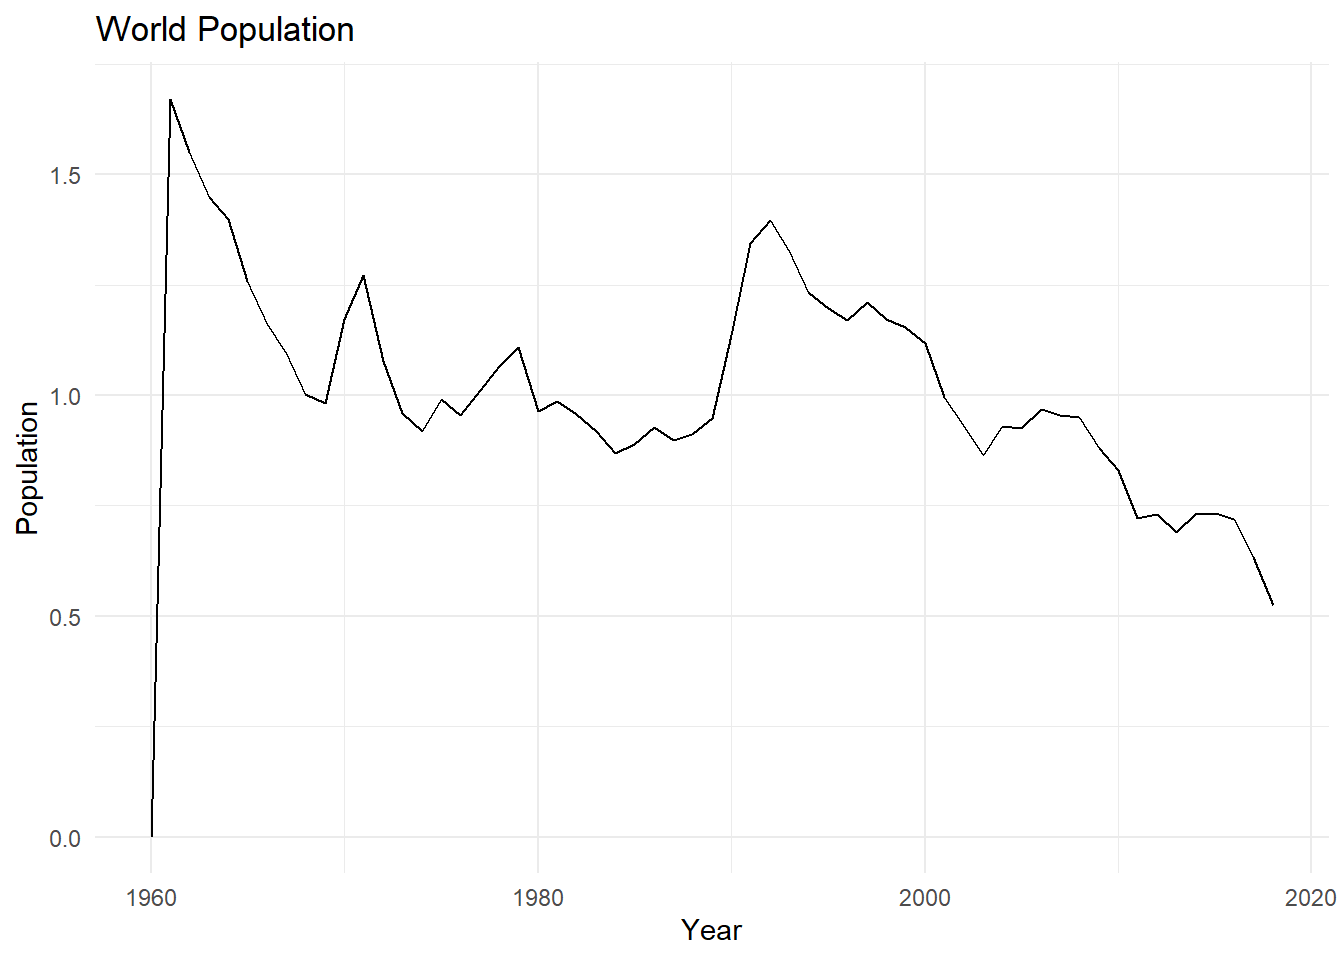
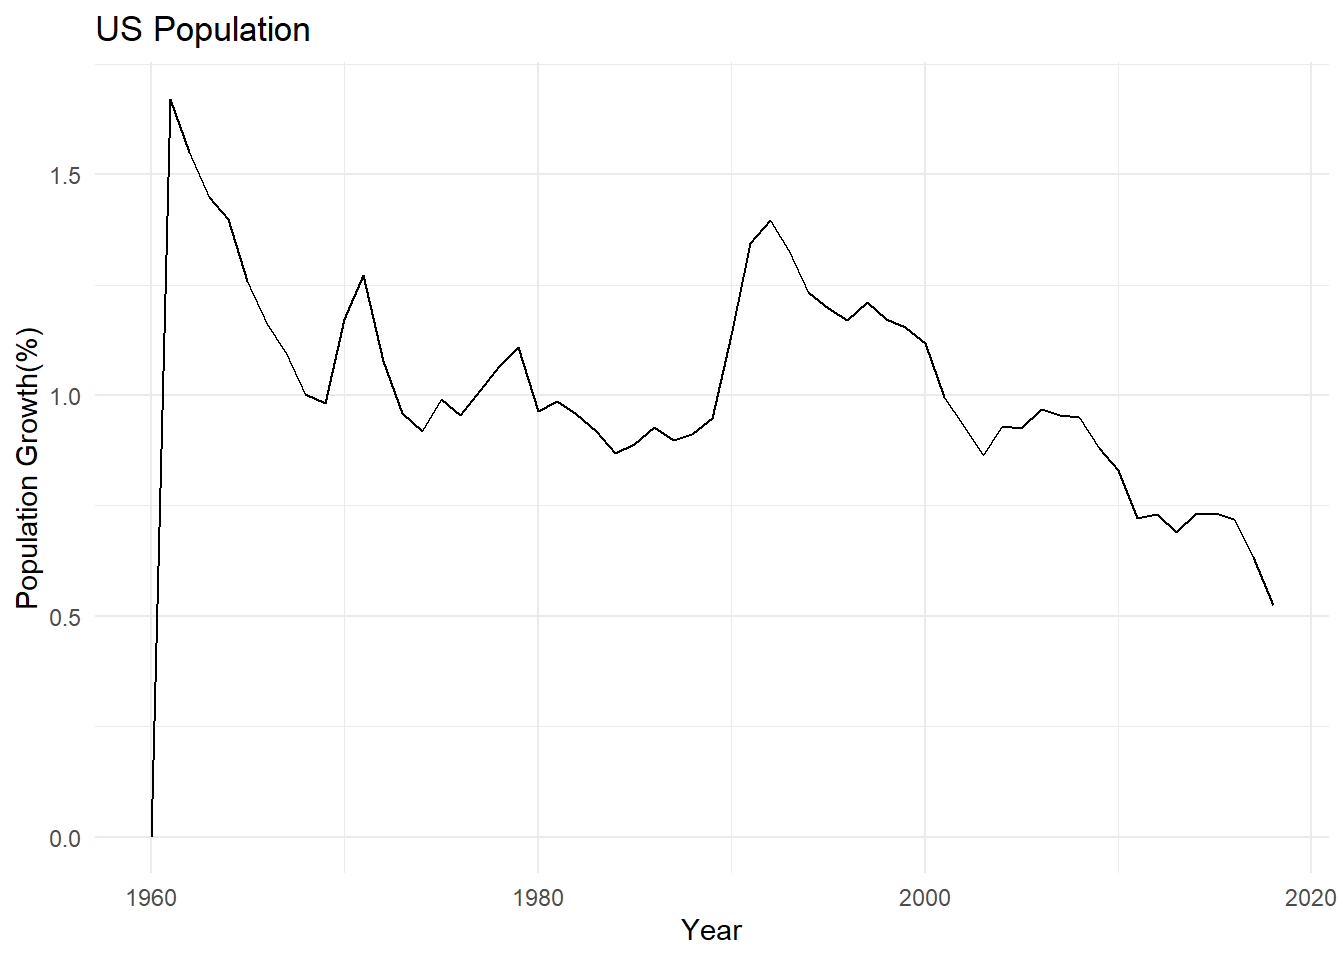
dashboard_1 update

Changed region(s): [[0.0625, 0.0, 0.25, 0.0625], [0.0, 0.3438, 0.0312, 0.625]]

diff --git a/docs/posts/dashboard_1/index.html b/docs/posts/dashboard_1/index.html
@@ -227,9 +227,56 @@ Show the US population growth per year by percentage
 <span id="cb3-8"><a href="#cb3-8" aria-hidden="true" tabindex="-1"></a><span class="fu">ggplot</span>(pop_USA, <span class="fu">aes</span>(<span class="at">x =</span> Year, <span class="at">y =</span> percentage)) <span class="sc">+</span> </span>
 <span id="cb3-9"><a href="#cb3-9" aria-hidden="true" tabindex="-1"></a>  <span class="fu">geom_line</span>() <span class="sc">+</span> </span>
 <span id="cb3-10"><a href="#cb3-10" aria-hidden="true" tabindex="-1"></a>  <span class="fu">theme_minimal</span>() <span class="sc">+</span></span>
-<span id="cb3-11"><a href="#cb3-11" aria-hidden="true" tabindex="-1"></a>  <span class="fu">labs</span>(<span class="at">title =</span> <span class="st">"World Population"</span>, <span class="at">x =</span> <span class="st">"Year"</span>, <span class="at">y =</span> <span class="st">"Population"</span>)</span></code><button title="Copy to Clipboard" class="code-copy-button"><i class="bi"></i></button></pre></div>
+<span id="cb3-11"><a href="#cb3-11" aria-hidden="true" tabindex="-1"></a>  <span class="fu">labs</span>(<span class="at">title =</span> <span class="st">"US Population"</span>, <span class="at">x =</span> <span class="st">"Year"</span>, <span class="at">y =</span> <span class="st">"Population Growth(%)"</span>)</span></code><button title="Copy to Clipboard" class="code-copy-button"><i class="bi"></i></button></pre></div>
 <div class="cell-output-display">
 <p><img src="index_files/figure-html/USA-population-growth-1.png" class="img-fluid" width="672"></p>
+</div>
+</div>
+<h3 class="anchored">
+linear model prediction for Chinese population next 10 years
+</h3>
+<div class="cell">
+<div class="sourceCode cell-code" id="cb4"><pre class="sourceCode r code-with-copy"><code class="sourceCode r"><span id="cb4-1"><a href="#cb4-1" aria-hidden="true" tabindex="-1"></a><span class="co"># Filter the Data</span></span>
+<span id="cb4-2"><a href="#cb4-2" aria-hidden="true" tabindex="-1"></a>pop_CHN <span class="ot">&lt;-</span> pop_data <span class="sc">%&gt;%</span></span>
+<span id="cb4-3"><a href="#cb4-3" aria-hidden="true" tabindex="-1"></a>    <span class="fu">filter</span>(Country.Code <span class="sc">==</span> <span class="st">"CHN"</span>)</span>
+<span id="cb4-4"><a href="#cb4-4" aria-hidden="true" tabindex="-1"></a>Year <span class="ot">&lt;-</span> pop_CHN<span class="sc">$</span>Year</span>
+<span id="cb4-5"><a href="#cb4-5" aria-hidden="true" tabindex="-1"></a>Value <span class="ot">&lt;-</span> pop_CHN<span class="sc">$</span>Value</span>
+<span id="cb4-6"><a href="#cb4-6" aria-hidden="true" tabindex="-1"></a><span class="co"># predict</span></span>
+<span id="cb4-7"><a href="#cb4-7" aria-hidden="true" tabindex="-1"></a>model <span class="ot">&lt;-</span> <span class="fu">lm</span>(Value <span class="sc">~</span> Year, <span class="at">data=</span>pop_CHN)</span>
+<span id="cb4-8"><a href="#cb4-8" aria-hidden="true" tabindex="-1"></a>future_years <span class="ot">&lt;-</span> <span class="fu">data.frame</span>(<span class="at">Year=</span><span class="fu">seq</span>(<span class="fu">max</span>(Year)<span class="sc">+</span><span class="dv">1</span>, <span class="fu">max</span>(Year)<span class="sc">+</span><span class="dv">10</span>, <span class="dv">1</span>))</span>
+<span id="cb4-9"><a href="#cb4-9" aria-hidden="true" tabindex="-1"></a>predictions <span class="ot">&lt;-</span> <span class="fu">predict</span>(model, <span class="at">newdata =</span> future_years)</span>
+<span id="cb4-10"><a href="#cb4-10" aria-hidden="true" tabindex="-1"></a><span class="fu">print</span>(predictions)</span></code><button title="Copy to Clipboard" class="code-copy-button"><i class="bi"></i></button></pre></div>
+<div class="cell-output cell-output-stdout">
+<pre><code>         1          2          3          4          5          6          7 
+1480990637 1494269723 1507548809 1520827896 1534106982 1547386068 1560665154 
+         8          9         10 
+1573944241 1587223327 1600502413 </code></pre>
+</div>
+</div>
+<h3 class="anchored">
+pie chart for China, Japan,and South Korea population in East Asia &amp; Pacific in 2015
+</h3>
+<div class="cell">
+<div class="sourceCode cell-code" id="cb6"><pre class="sourceCode r code-with-copy"><code class="sourceCode r"><span id="cb6-1"><a href="#cb6-1" aria-hidden="true" tabindex="-1"></a><span class="co">#get 2015 data</span></span>
+<span id="cb6-2"><a href="#cb6-2" aria-hidden="true" tabindex="-1"></a>pop_data2015 <span class="ot">&lt;-</span> pop_data <span class="sc">%&gt;%</span></span>
+<span id="cb6-3"><a href="#cb6-3" aria-hidden="true" tabindex="-1"></a>    <span class="fu">filter</span>(Year <span class="sc">==</span> <span class="dv">2015</span>)</span>
+<span id="cb6-4"><a href="#cb6-4" aria-hidden="true" tabindex="-1"></a>pop_CJK2015 <span class="ot">&lt;-</span> pop_data2015 <span class="sc">%&gt;%</span></span>
+<span id="cb6-5"><a href="#cb6-5" aria-hidden="true" tabindex="-1"></a>    <span class="fu">filter</span>(Country.Code <span class="sc">==</span> <span class="st">"CHN"</span> <span class="sc">|</span> Country.Code <span class="sc">==</span> <span class="st">"JPN"</span> <span class="sc">|</span> Country.Code <span class="sc">==</span> <span class="st">"KOR"</span>)</span>
+<span id="cb6-6"><a href="#cb6-6" aria-hidden="true" tabindex="-1"></a>pop_EAS2015 <span class="ot">&lt;-</span> pop_data2015 <span class="sc">%&gt;%</span></span>
+<span id="cb6-7"><a href="#cb6-7" aria-hidden="true" tabindex="-1"></a>    <span class="fu">filter</span>(Country.Code <span class="sc">==</span> <span class="st">"EAS"</span>)</span>
+<span id="cb6-8"><a href="#cb6-8" aria-hidden="true" tabindex="-1"></a></span>
+<span id="cb6-9"><a href="#cb6-9" aria-hidden="true" tabindex="-1"></a>pop_Other <span class="ot">&lt;-</span> pop_EAS2015<span class="sc">$</span>Value <span class="sc">-</span> <span class="fu">sum</span>(pop_CJK2015<span class="sc">$</span>Value)</span>
+<span id="cb6-10"><a href="#cb6-10" aria-hidden="true" tabindex="-1"></a></span>
+<span id="cb6-11"><a href="#cb6-11" aria-hidden="true" tabindex="-1"></a>pie_data <span class="ot">&lt;-</span> <span class="fu">rbind</span>(pop_CJK2015, <span class="fu">data.frame</span>(<span class="at">Country.Name =</span> <span class="st">"Other"</span>, <span class="at">Country.Code =</span> <span class="st">"OTH"</span>, <span class="at">Year =</span> <span class="dv">2015</span> ,<span class="at">Value =</span> pop_Other))</span>
+<span id="cb6-12"><a href="#cb6-12" aria-hidden="true" tabindex="-1"></a><span class="co"># draw pie chart</span></span>
+<span id="cb6-13"><a href="#cb6-13" aria-hidden="true" tabindex="-1"></a><span class="fu">ggplot</span>(pie_data, <span class="fu">aes</span>(<span class="at">x =</span> <span class="st">""</span>, <span class="at">y =</span> Value, <span class="at">fill =</span> Country.Name)) <span class="sc">+</span></span>
+<span id="cb6-14"><a href="#cb6-14" aria-hidden="true" tabindex="-1"></a>  <span class="fu">geom_bar</span>(<span class="at">width =</span> <span class="dv">1</span>, <span class="at">stat =</span> <span class="st">"identity"</span>) <span class="sc">+</span></span>
+<span id="cb6-15"><a href="#cb6-15" aria-hidden="true" tabindex="-1"></a>  <span class="fu">coord_polar</span>(<span class="st">"y"</span>, <span class="at">start =</span> <span class="dv">0</span>) <span class="sc">+</span></span>
+<span id="cb6-16"><a href="#cb6-16" aria-hidden="true" tabindex="-1"></a>  <span class="fu">theme_void</span>() <span class="sc">+</span></span>
+<span id="cb6-17"><a href="#cb6-17" aria-hidden="true" tabindex="-1"></a>  <span class="fu">labs</span>(<span class="at">fill =</span> <span class="st">"Country"</span>, <span class="at">title =</span> <span class="st">"Population_distribution"</span>) <span class="sc">+</span></span>
+<span id="cb6-18"><a href="#cb6-18" aria-hidden="true" tabindex="-1"></a>  <span class="fu">scale_fill_brewer</span>(<span class="at">palette =</span> <span class="st">"Pastel1"</span>) </span></code><button title="Copy to Clipboard" class="code-copy-button"><i class="bi"></i></button></pre></div>
+<div class="cell-output-display">
+<p><img src="index_files/figure-html/Pie-Chart-1.png" class="img-fluid" width="672"></p>
 </div>
 </div>
 

diff --git a/docs/index.html b/docs/index.html
@@ -181,7 +181,7 @@ ul.task-list li input[type="checkbox"] {
 
 <div class="quarto-listing quarto-listing-container-default" id="listing-listing">
 <div class="list quarto-listing-default">
-<div class="quarto-post image-right" data-index="0" data-categories="code,analysis" data-listing-date-sort="1699250400000" data-listing-file-modified-sort="1699517357881" data-listing-date-modified-sort="NaN" data-listing-reading-time-sort="1">
+<div class="quarto-post image-right" data-index="0" data-categories="code,analysis" data-listing-date-sort="1699250400000" data-listing-file-modified-sort="1699522438281" data-listing-date-modified-sort="NaN" data-listing-reading-time-sort="2">
 <div class="thumbnail">
 <p><a href="./posts/dashboard_1/index.html"> <img src="./posts/dashboard_1/image.jpg" class="thumbnail-image"> </a></p>
 </div>
